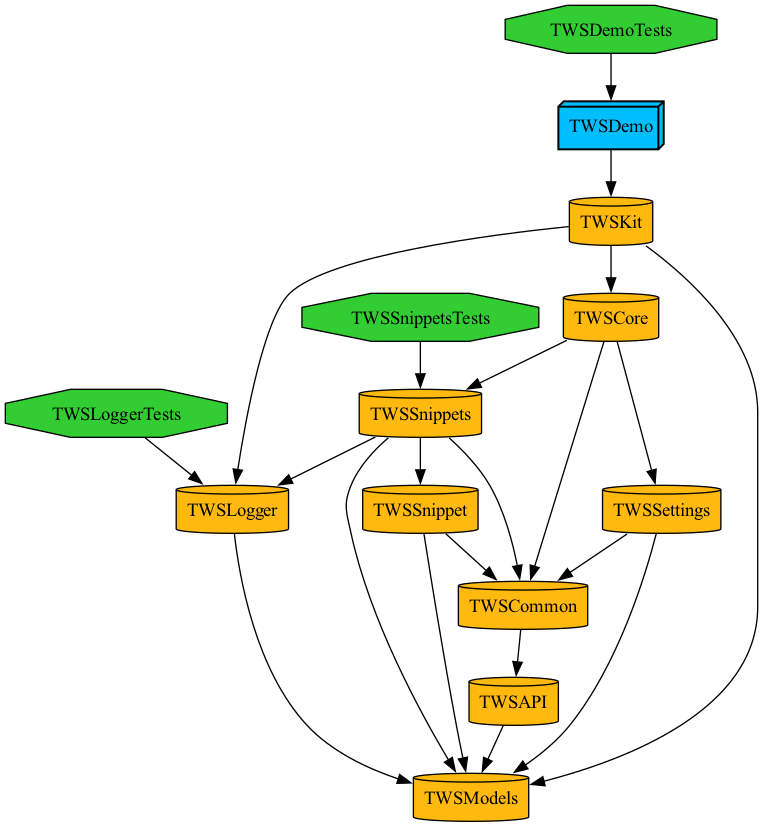
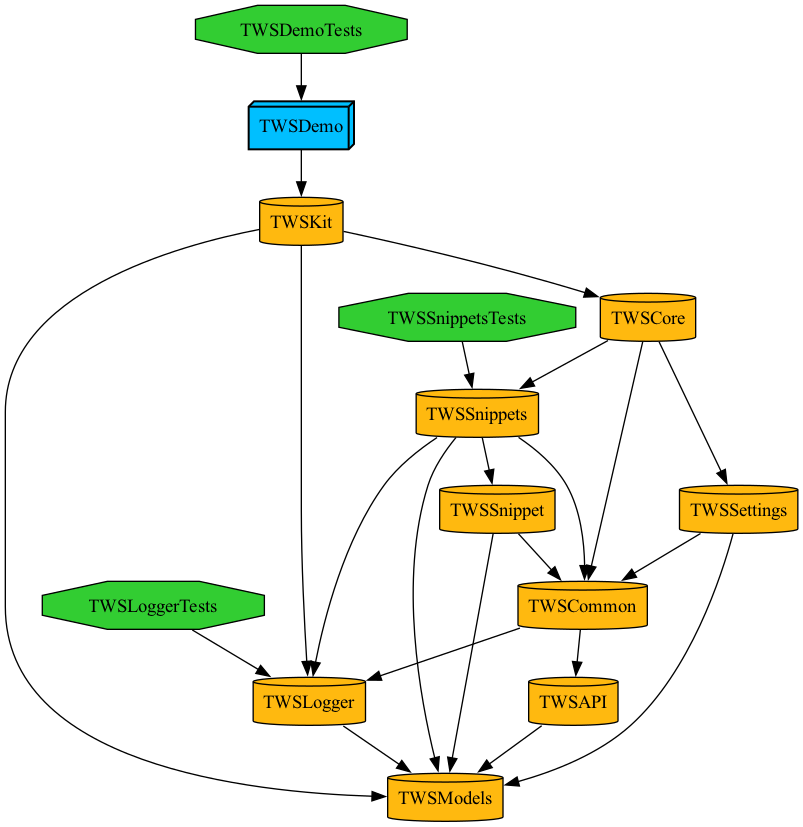
Resolved issues found during PR; Improved logger

diff --git a/TWSSnippets/Sources/TWSSnippetsFeature.swift b/TWSSnippets/Sources/TWSSnippetsFeature.swift
@@ -114,8 +114,8 @@ public struct TWSSnippetsFeature {
             return .none
 
         case let .snippetsLoaded(.failure(error)):
-            logger.logErr(
-                message: "Snippets error loading snippets: " + error.localizedDescription
+            logger.err(
+                "Snippets error loading snippets: " + error.localizedDescription
             )
             return .none
 
@@ -157,7 +157,7 @@ public struct TWSSnippetsFeature {
             mainLoop: for await event in stream {
                     switch event {
                     case .didConnect:
-                        print("-> did connect", Date())
+                        logger.info("Did connect \(Date.now)")
                         var task: Task<Void, Never>?
 
                         await send(.business(.load))
@@ -167,22 +167,22 @@ public struct TWSSnippetsFeature {
                                     do {
                                         try await socket.listen(connectionID)
                                     } catch {
-                                        print("Failed to receive a message: \(error)")
+                                        logger.err("Failed to receive a message: \(error)")
                                         break
                                     }
                                 }
                             }
                         } onCancel: { [task] in
-                            print("-> Cancelled")
+                            logger.info("Cancelled listening")
                             task?.cancel()
                         }
 
                     case .didDisconnect:
-                        print("-> did disconnect", Date())
+                        logger.info("Did disconnect \(Date())")
                         break mainLoop
 
                     case let .receivedMessage(message):
-                        print("-> received a message: \(message)")
+                        logger.info("Received a message: \(message)")
                         switch message.type {
                         case .created, .deleted:
                             await send(.business(.load))
@@ -195,20 +195,20 @@ public struct TWSSnippetsFeature {
                     }
                 }
 
-                print("--> end")
+                logger.info("The task used for listening to socket has completed. Closing connection.")
                 await socket.closeConnection(connectionID)
             }
             .cancellable(id: CancelID.socket)
             .concatenate(with: .send(.business(.reconnect)))
 
         case .reconnect:
-            print("-> reconnect")
+            logger.info("Reconnect")
             return .run { send in
                 do {
                     try await clock.sleep(for: .seconds(RECONNECT_TIMEOUT))
                     await send(.business(.listenForChanges))
                 } catch {
-                    print("-> Reconnecting failed")
+                    logger.err("Reconnecting failed: \(error)")
                 }
             }
             .cancellable(id: CancelID.reconnect)

diff --git a/TWSLogger/Sources/Logger.swift b/TWSLogger/Sources/Logger.swift
@@ -13,58 +13,41 @@ public struct TWSLog {
         }
     }
 
-    public func log(
-        message: String,
-        className: String? = #fileID,
-        lineNumber: Int? = #line,
-        functionName: String? = #function
-    ) {
-        logger.log("\(createLogMessage(message, className, lineNumber, functionName))")
-    }
-
-    public func logInfo(
-        message: String,
-        className: String? = #fileID,
-        lineNumber: Int? = #line,
-        functionName: String? = #function
+    public func info(
+        _ message: String,
+        className: String = #fileID,
+        lineNumber: Int = #line,
+        functionName: String = #function
     ) {
         logger.info("\(createLogMessage(message, className, lineNumber, functionName))")
     }
 
-    public func logWarn(
-        message: String,
-        className: String? = #fileID,
-        lineNumber: Int? = #line,
-        functionName: String? = #function
+    public func warn(
+        _ message: String,
+        className: String = #fileID,
+        lineNumber: Int = #line,
+        functionName: String = #function
     ) {
         logger.warning("\(createLogMessage(message, className, lineNumber, functionName))")
     }
 
-    public func logErr(
-        message: String,
-        className: String? = #fileID,
-        lineNumber: Int? = #line,
-        functionName: String? = #function
+    public func err(
+        _ message: String,
+        className: String = #fileID,
+        lineNumber: Int = #line,
+        functionName: String = #function
     ) {
         logger.critical("\(createLogMessage(message, className, lineNumber, functionName))")
     }
 
     private func createLogMessage(
         _ message: String,
-        _ className: String?,
-        _ lineNumber: Int?,
-        _ functionName: String?
+        _ className: String,
+        _ lineNumber: Int,
+        _ functionName: String
     ) -> String {
         var log = message
-        if let className {
-            log.append(" Class: \(className)")
-        }
-        if let lineNumber {
-            log.append(" LineNumber: \(lineNumber)")
-        }
-        if let functionName {
-            log.append(" Function: \(functionName)")
-        }
+        log.append(" [\(className), l\(lineNumber)]")
         return log
     }
 }

diff --git a/TWSCommon/Sources/Dependencies/Socket/SocketDependency+Implementation.swift b/TWSCommon/Sources/Dependencies/Socket/SocketDependency+Implementation.swift
@@ -18,7 +18,7 @@ class SocketConnector {
     let stream: AsyncStream<WebSocketEvent>
 
     init(url: URL) {
-        print("-> INIT SocketConnector")
+        logger.info("INIT SocketConnector")
         let stream = AsyncStream<WebSocketEvent>.makeStream()
         self.stream = stream.stream
         self.continuation = stream.continuation
@@ -26,7 +26,7 @@ class SocketConnector {
     }
 
     deinit {
-        print("-> DEINIT SocketConnector")
+        logger.info("DEINIT SocketConnector")
     }
 
     func connect() async throws {
@@ -52,12 +52,10 @@ class SocketConnector {
             continuation.finish()
             return
         }
-
-        print("-> passed connection")
     }
 
     func listen() async throws {
-        print("-> listen start")
+        logger.info("Will start listening")
         guard let webSocket else {
             throw WebSocketError.webSocketNil
         }
@@ -68,7 +66,7 @@ class SocketConnector {
             try await _processMessage(data: data)
 
         case let .string(string):
-            print("->", string)
+            logger.info("Received a message: \(string)")
             if let data = string.data(using: .utf8) {
                 try await _processMessage(data: data)
             }

diff --git a/TWSKit/Sources/TWSFactory.swift b/TWSKit/Sources/TWSFactory.swift
@@ -24,8 +24,8 @@ public class TWSFactory {
         )
 
         let storage = state.snippets.snippets.map(\.snippet)
-        logger.logInfo(
-            message: "\(storage.count) \(storage.count == 1 ? "snippet" : "snippets") loaded from disk"
+        logger.info(
+            "\(storage.count) \(storage.count == 1 ? "snippet" : "snippets") loaded from disk"
         )
 
         let store = Store(

diff --git a/Project.swift b/Project.swift
@@ -222,7 +222,8 @@ let project = Project(
             sources: ["TWSCommon/Sources/**"],
             dependencies: [
                 .external(name: "ComposableArchitecture"),
-                .target(name: "TWSAPI")
+                .target(name: "TWSAPI"),
+                .target(name: "TWSLogger")
             ],
             settings: .settings(
                 configurations: [

diff --git a/TWSCommon/Sources/Helpers/Logger.swift b/TWSCommon/Sources/Helpers/Logger.swift
@@ -1,0 +1,12 @@
+//
+//  Logger.swift
+//  TWSCommon
+//
+//  Created by Miha Hozjan on 19. 06. 24.
+//  Copyright © 2024 Inova IT, d.o.o. All rights reserved.
+//
+
+import Foundation
+import TWSLogger
+
+let logger = TWSLog(category: "TWSCommon")
